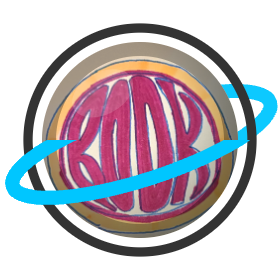
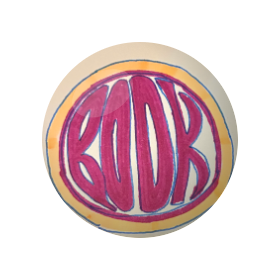
Remove all rings/border from Book Coverz planet
Drop the Saturn ring, the shaded medallion ring, and the vignette rim,
leaving just the plain clipped photo with its subtle default shading.
Regenerate the newsletter icon to match.

Changed region(s): [[0.0, 0.0571, 1.0, 0.9429]]

diff --git a/config.js b/config.js
@@ -2573,7 +2573,7 @@ FIN`,
       x: 28.8,
       y: 21.6,
       size: 88,
-      art: { type: "photo", photo: "assets/images/book-coverz.png", color: "#ffffff", shade: "#333333", light: "#ffffff", ring: "#00c6ff", border: "shade" },
+      art: { type: "photo", photo: "assets/images/book-coverz.png", color: "#ffffff", shade: "#333333", light: "#ffffff", vignette: false },
       page: {
         ribbon: "we judge a book only by how cool the cover is",
         oval: { fill: "#1f5c3a", text: "#ffd700", label: "Weekly Book Cover Recommendations" },
